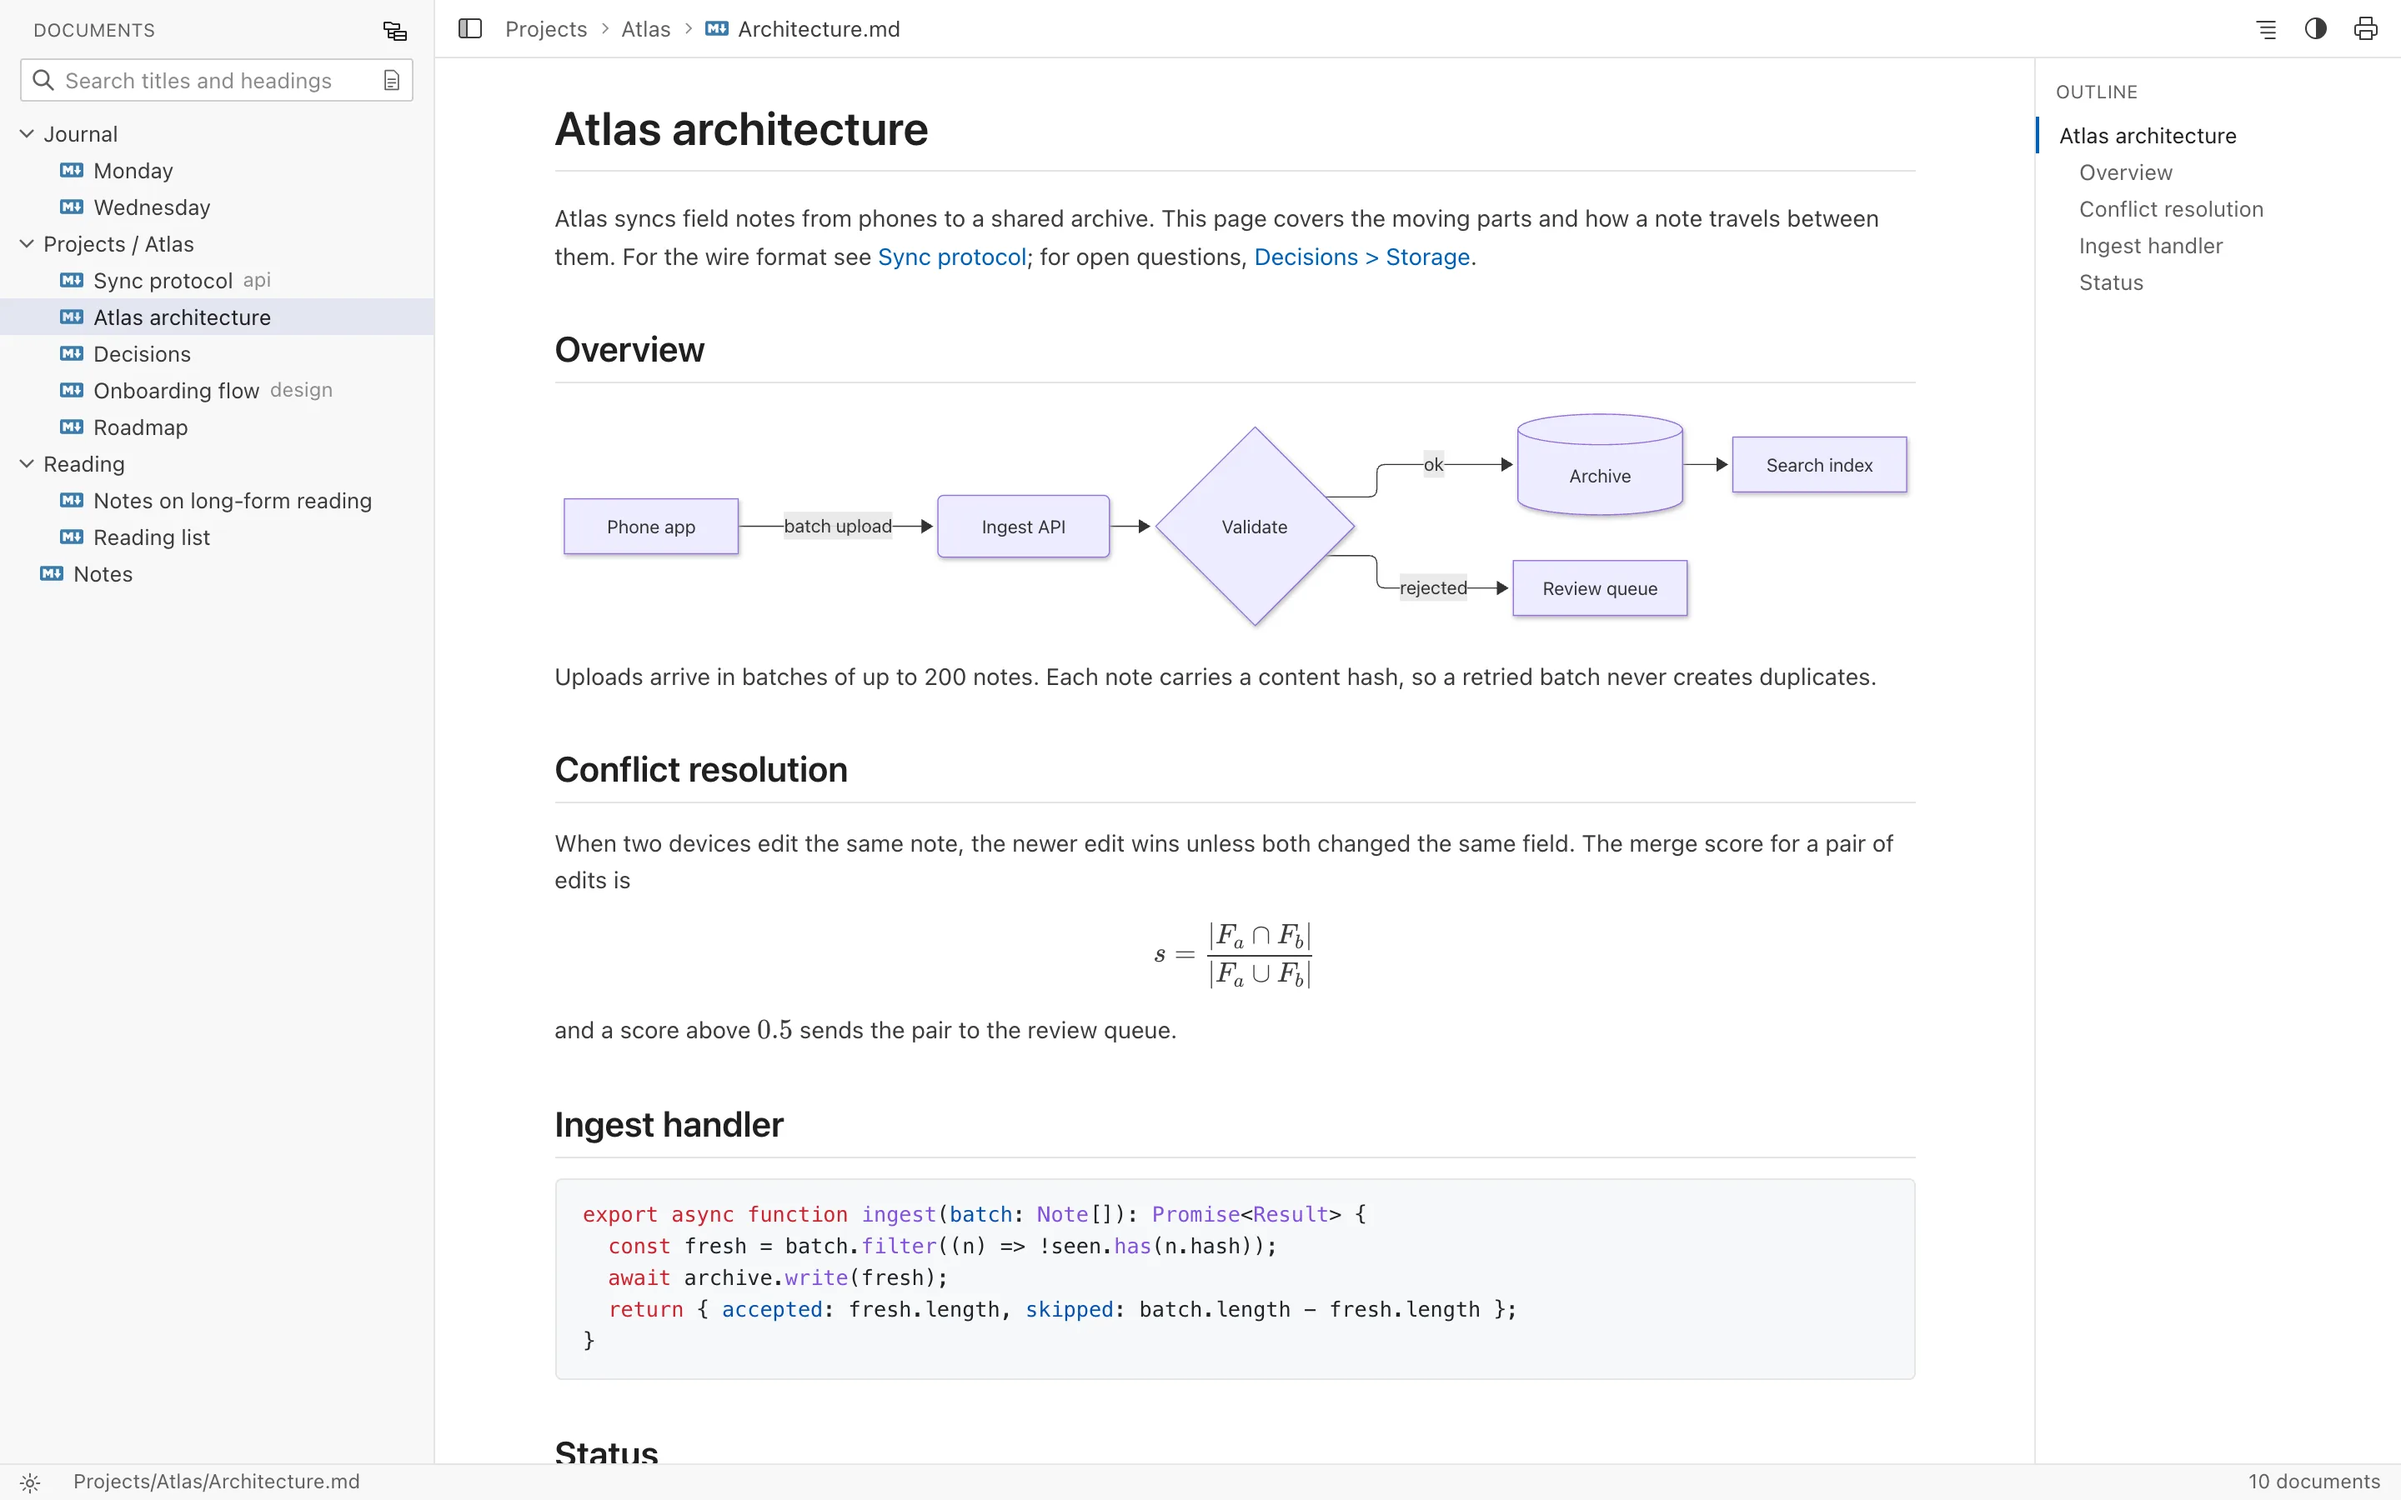
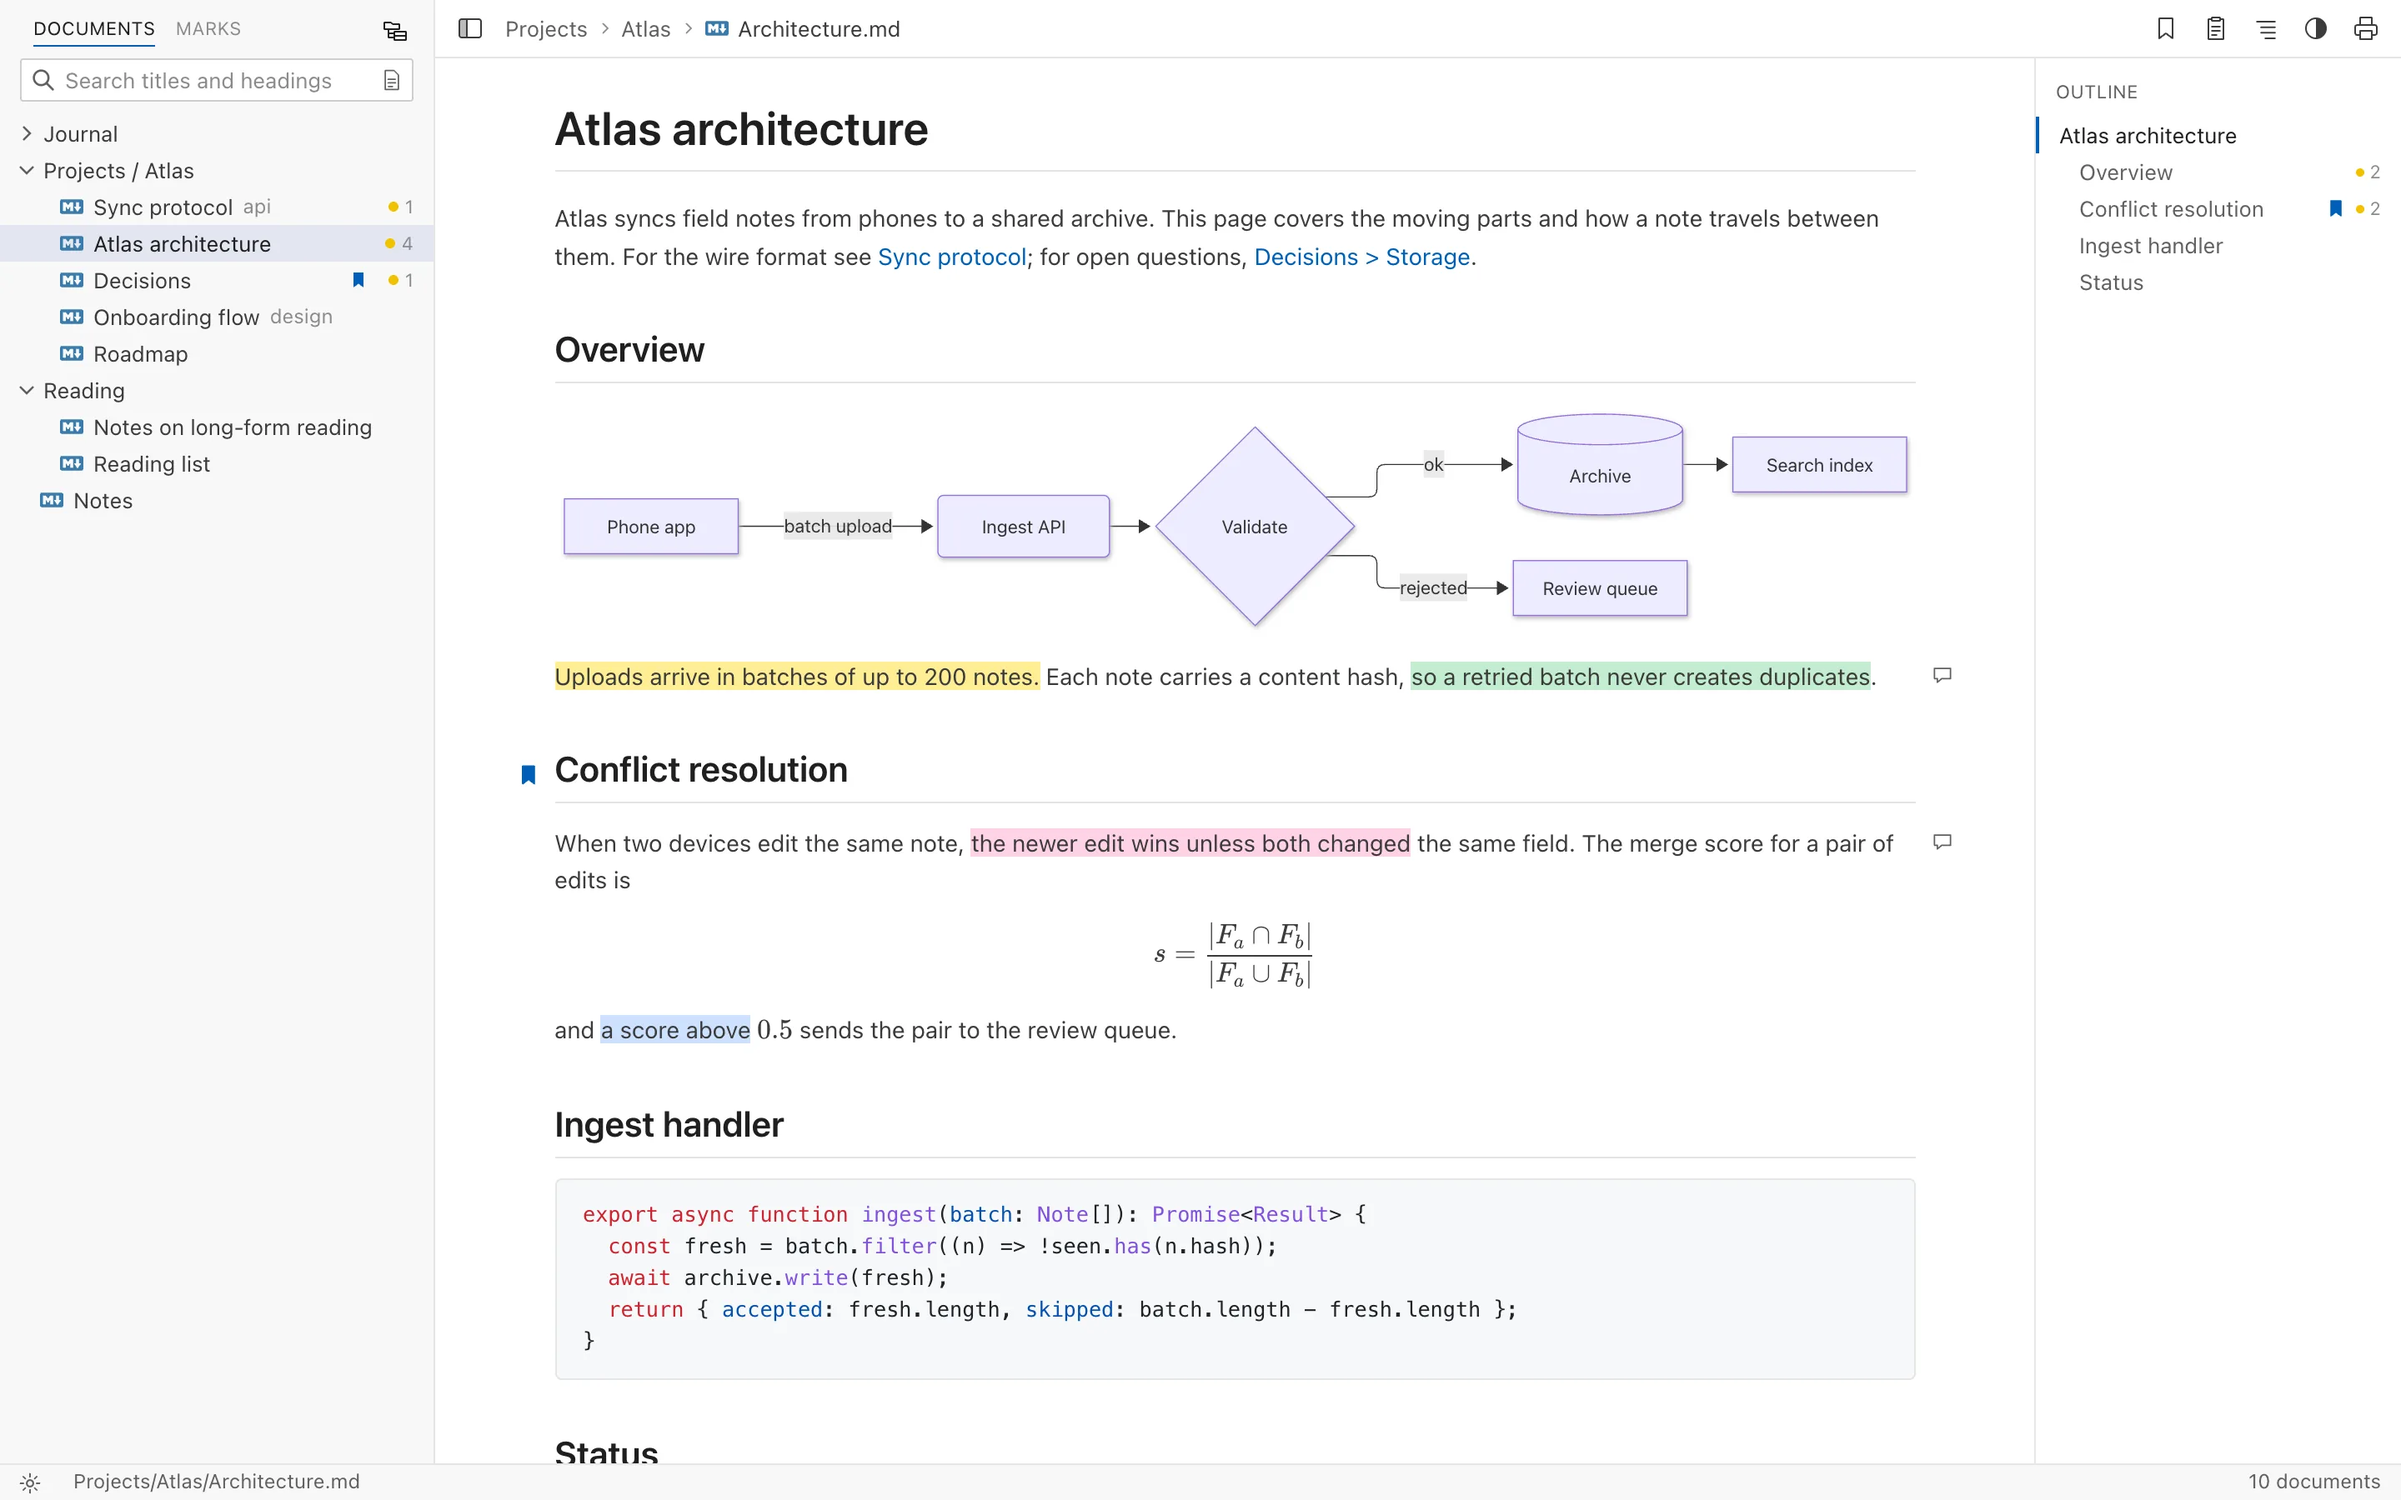
docs(site): re-render screenshots with marks (#63)
Re-shoot the site's screenshots from the current app, so they show the
Documents / Marks sidebar, highlights, notes and bookmarks, and add a
shot of the Marks view (marks.webp) for a later section. Describe the
highlights in the hero image's alt text.

diff --git a/site/index.html b/site/index.html
@@ -53,7 +53,7 @@
 
       <div class="shot-frame">
         <img src="img/app-dark.webp" width="2880" height="1800"
-             alt="Folio in its dark theme: a sidebar of documents grouped by folder, an architecture note with a flowchart, a formula and code, and an outline of its headings on the right.">
+             alt="Folio in its dark theme: a sidebar of documents grouped by folder, an architecture note with a flowchart, a formula, code and highlighted passages, and an outline of its headings on the right with a count of marks per section.">
       </div>
     </div>
   </section>
